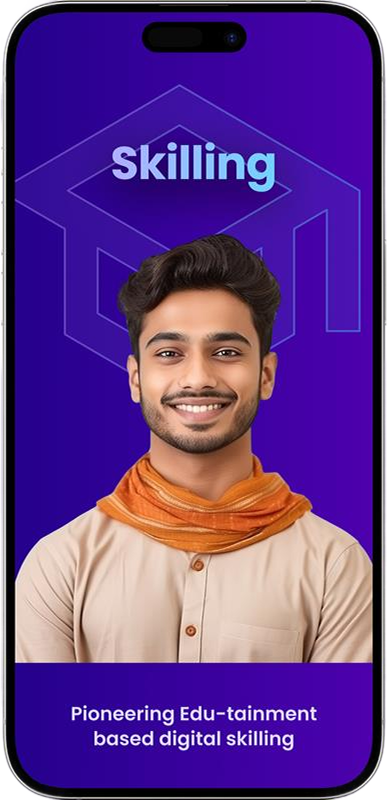
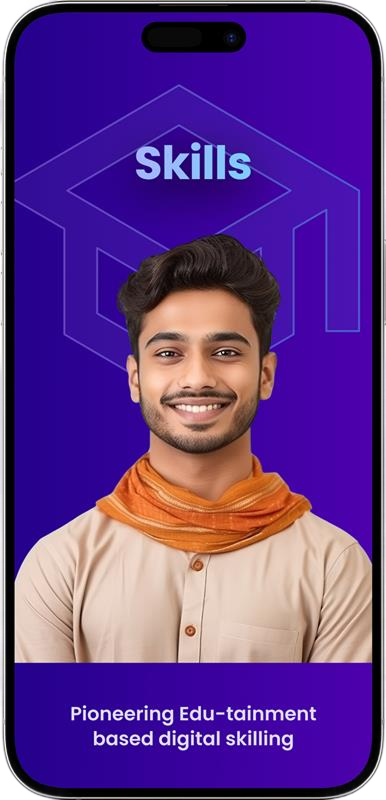
mobile responsive final

diff --git a/src/components/sections/IdentityVerified/IdentityVerified2.tsx b/src/components/sections/IdentityVerified/IdentityVerified2.tsx
@@ -309,15 +309,15 @@ const IdentityVerified = () => {
         }}
       >
         <div className="absolute inset-0 flex flex-col px-2 sm:px-4 md:px-16 pt-6">
-          <div className="w-full flex flex-col md:flex-row items-center md:items-center">
-            <div className="max-w-2xl w-full h-full flex flex-col items-center md:items-center">
-              <h2 className="text-center md:text-center text-4xl sm:text-3xl md:text-5xl font-bold text-white leading-tight mb-1">
+          <div className="w-full flex flex-col md:flex-row items-center md:items-left">
+            <div className="max-w-2xl w-full h-full flex flex-col items-center md:items-start">
+              <h2 className="text-center md:text-left text-4xl sm:text-3xl md:text-5xl font-bold text-white leading-tight mb-1">
                 Saathi True<span className="bg-gradient-to-r from-[#FFC01D] via-[#FFD955] to-[#FF9A01] bg-clip-text text-transparent">ID</span>
               </h2>
-              <div className="text-center md:text-center text-md sm:text-base md:text-[18px] text-gray-400 italic font-medium mb-4 md:mb-6">
+              <div className="text-center md:text-left text-md sm:text-base md:text-[18px] text-gray-400 italic font-medium mb-4 md:mb-6">
                 LinkedIn of the Workforce
               </div>
-              <div className="text-center md:text-center text-gray-300 text-2xl sm:text-lg md:text-[40px] font-regular pb-6 md:pb-10 max-w-5xl md:leading-none">
+              <div className="text-center md:text-left text-gray-400 text-2xl sm:text-lg md:text-[40px] font-regular pb-6 md:pb-10 max-w-5xl md:leading-none">
                 A single automated snapshot of authenticated details redefining
                 <span className=" text-white"> Worker-Employer</span> trust metrics
               </div>

diff --git a/src/components/sections/Impact.tsx b/src/components/sections/Impact.tsx
@@ -45,17 +45,17 @@ function ImpactCards() {
 
 export default function Impact() {
   return (
-    <section className="bg-gradient-to-b from-[#070707] via-[#18181b] to-[#232325] py-16 md:py-20">
+    <section className="bg-gradient-to-b from-[#070707] via-[#18181b] to-[#232325] pb-4  md:py-20">
       <div className="container mx-auto px-6 md:px-12 lg:px-16 space-y-3 flex flex-col items-center">
         <h2 className="text-4xl md:text-7xl font-bold text-white text-center">
           Impacting <span className="bg-gradient-to-r from-yellow-400 via-yellow-300 to-yellow-500 bg-clip-text text-transparent">Bharat</span>
         </h2>
-        <div className="flex flex-col items-center pb-6">
+        <div className="flex flex-col items-center py-6">
           <p className="text-gray-400 text-xl md:text-[40px] font-regular text-center leading-tight tracking-[-0.8px]">Driving transformational impact at scale</p>
           <p className="text-white text-2xl md:text-[35px] font-regular text-center mt-2">Empower, Educate, Enrich</p>
         </div>
         <ImpactCards />
-        <h2 className="text-3xl md:text-5xl font-bold text-white text-center pt-10">
+        <h2 className="text-4xl md:text-5xl font-bold text-white text-center pt-10">
         In the <span className="bg-gradient-to-r from-yellow-400 via-yellow-300 to-yellow-500 bg-clip-text text-transparent">Media</span>
         </h2>
         <div className="flex flex-col items-center ">

diff --git a/src/app/page.tsx b/src/app/page.tsx
@@ -13,6 +13,7 @@ import SaathiEcosystem from "@/components/sections/SaathiEcosystem";
 // import IdentityVerified from "@/components/sections/IdentityVerified/IdentityVerified";
 import IdentityVerified2 from "@/components/sections/IdentityVerified/IdentityVerified2";
 import DownloadAndHireSection from "@/components/sections/DownloadAndHireSection";
+import FullWidthTextSection from "@/components/sections/FullWidthTextSection";
 
 // Main page component that serves as the landing page
 export default function Home() {
@@ -34,10 +35,10 @@ export default function Home() {
       {/* Section for creators */}
       <Impact />
       <DownloadAndHireSection />
+      <FullWidthTextSection />
       
       {/* Footer component */}
-      {/* Section about community features */}
-      <CommunitySection />
+      
       <Footer />
     </main>
   );

diff --git a/src/components/sections/video-ticker/media.ts b/src/components/sections/video-ticker/media.ts
@@ -5,7 +5,7 @@ export const impactVideoData = [
     
     thumbnailUrl: "/images/Media/business-today.png",
     videoUrl: "",
-    youtubeUrl: "https://www.youtube.com/embed/rLVH_VB0Ohw?si=QtcByiTVUf3XYiSp"
+    youtubeUrl: "https://youtube.com/AZvtXKkVrCA?si=2SggTHDQsFuMxj8f"
   },
   {
     id: "impact2",
@@ -30,5 +30,19 @@ export const impactVideoData = [
     videoUrl: "",
     youtubeUrl: "https://www.youtube.com/watch?v=F5DRWyz2KBk"
   },
+  {
+    id: "impact5",
+    title: "",
+    thumbnailUrl: "/images/Media/mission.png",
+    videoUrl: "",
+    youtubeUrl: "https://www.youtube.com/watch?v=4ZRnzLbWLUw"
+  },
+  {
+    id: "impact6",
+    title: "",
+    thumbnailUrl: "/images/Media/et-interview-2.png",
+    videoUrl: "",
+    youtubeUrl: "https://www.youtube.com/watch?v=-HbIuW44Td4&t=40s"
+  }
   
 ]; 

diff --git a/src/components/sections/FullWidthTextSection.tsx b/src/components/sections/FullWidthTextSection.tsx
@@ -1,0 +1,20 @@
+import React from "react";
+
+const FullWidthTextSection = () => {
+  return (
+    <section className="w-full bg-black py-4 px-4 md:px-10">
+      <div className="w-full flex flex-col gap-2 md:gap-4">
+        <h2 className="text-white font-regular text-lg md:text-3xl w-full text-center md:text-left mb-2 md:mb-4 md:px-0 px-2">
+          Trusted by
+        </h2>
+        <div className="w-full ">
+          <h2 className="text-gray-800 font-bold text-5xl md:text-[180px] lg:text-[290px] w-full leading-none text-center md:text-left mb-4">
+            2,000,000+
+          </h2>
+        </div>
+      </div>
+    </section>
+  );
+};
+
+export default FullWidthTextSection; 

diff --git a/src/components/layout/Footer.tsx b/src/components/layout/Footer.tsx
@@ -46,7 +46,7 @@ export default function Footer() {
         <h2 className="text-4xl md:text-5xl font-bold bg-gradient-to-r from-[#FFC01D] via-[#FFD955] to-[#FF9A01] bg-clip-text text-transparent mb-12 text-center">Get in Touch</h2>
 
         {/* Social Cards */}
-        <div className="w-full grid grid-cols-1 md:grid-cols-2 lg:grid-cols-4 gap-6 mb-16">
+        <div className="w-full grid grid-cols-2 md:grid-cols-2 lg:grid-cols-4 gap-6 mb-16">
           {socialLinks.map((item) => (
             <Link
               key={item.name}

diff --git a/src/components/sections/video-ticker/VideoTickerComponent.tsx b/src/components/sections/video-ticker/VideoTickerComponent.tsx
@@ -81,7 +81,7 @@ export default function VideoTickerComponent({ videos, title }: VideoTickerProps
   };
 
   return (
-    <div className="w-full overflow-hidden py-8">
+    <div className="w-full overflow-hidden  md:py-10">
       <h2 className="text-lg md:text-[28px] font-bold text-gray-500 mb-6">{title}</h2>
       
       {/* Video Modal */}
